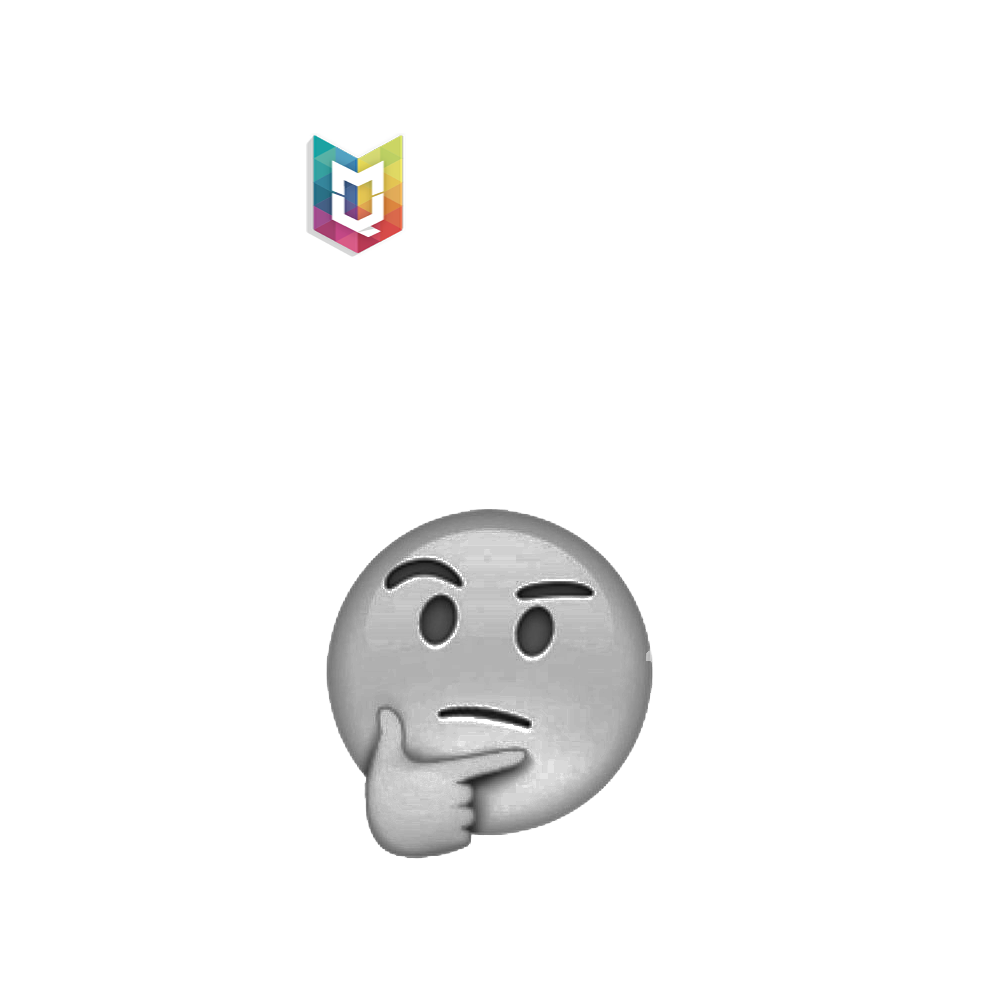
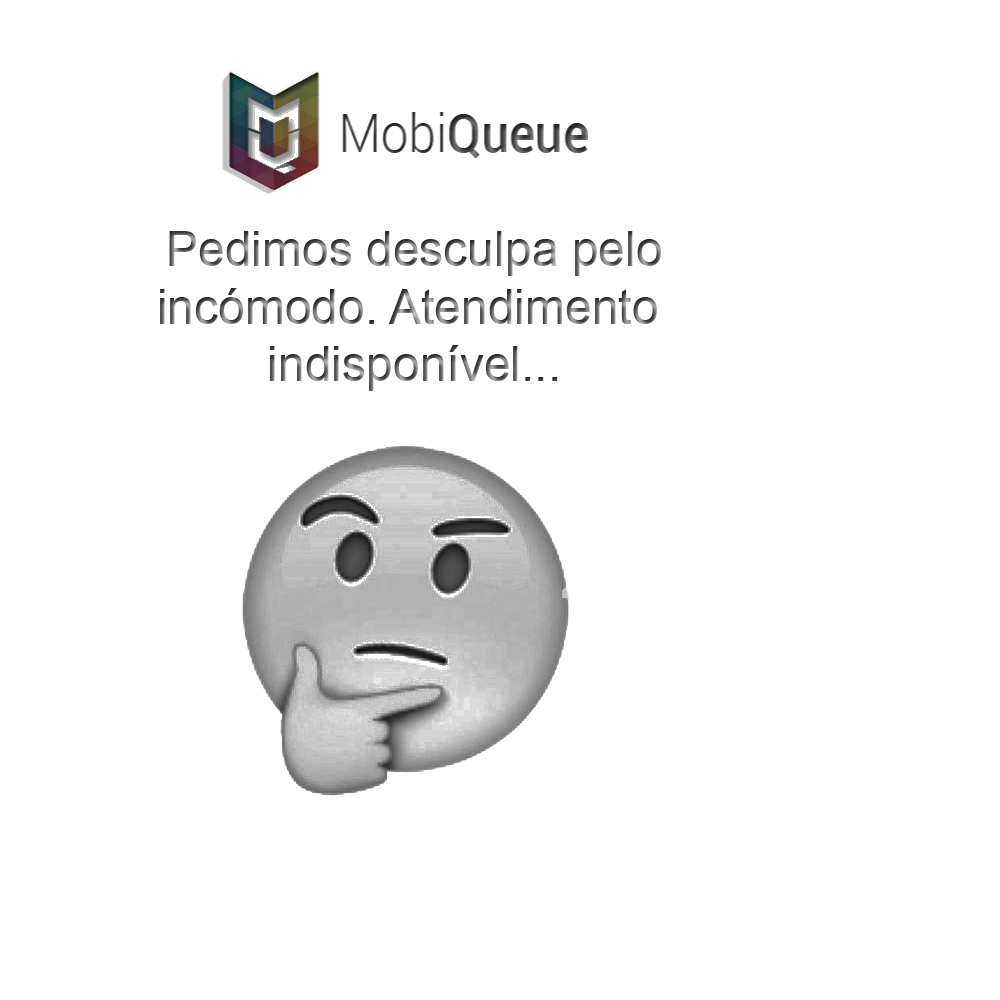
19thUp

Changed region(s): [[0.217, 0.434, 0.651, 0.868], [0.155, 0.062, 0.682, 0.403]]

diff --git a/formmarca.html b/formmarca.html
@@ -13,7 +13,7 @@
 
         }
     </script>
-    <style >
+    <style>
         #div1{
             background: white;
             background-repeat: no-repeat;
@@ -21,15 +21,18 @@
             border: 2px solid black;
             position: relative;
             min-height: 130px;
-            font-size: 100%;
+            font-size: ;
             font-weight: bold;
             font-family: verdana;
             margin-left: 320px;
             vertical-align: text-middle;
+        .div1{
+            background: #ccc;
+            border: 2px solid black;
+            }
+       #header {
 
-        }
-        #header {
-
+            padding-top: 370px;
             position: relative;
             min-height: 100px;
             font-size: 500%;
@@ -39,21 +42,17 @@
             vertical-align: text-bottom;
             text-shadow: 2px 2px #000000;
         }
-
     </style>
 </head>
 
 <body background="./fundo12.png">
-<div style="height:300px;"><br><br><br><br><br></div>
 <div id="header">
-    <b>Video Call</b>
+    <b>Efectue a sua marcação:</b>
 </div>
 
 <script type="text/javascript" src="https://secure.skypeassets.com/i/scom/js/skype-uri.js"></script>
 <div id="div1" style="margin-left:16%; margin-right: 47%">
-    <br>
-    <p style="margin-left:20px; font-size:150%;">Efetue a marcação:</p>
-    <form method="get"  action="./countdown.html" style="font-weight: bold;">
+       <form method="get"  action="./countdown.html" style="font-weight: bold;">
           <table style=" margin-left:20px; text-align: left">
             <tr>
                 <td>Insira o seu nome:</td>

diff --git a/countdown.html b/countdown.html
@@ -7,12 +7,26 @@
             background: white;
             border: 2px solid black;
             }
+         #header {
+
+            padding-top: 370px;
+            position: relative;
+            min-height: 100px;
+            font-size: 500%;
+            color: white;
+            font-family: verdana;
+            margin-left: 220px;
+            vertical-align: text-bottom;
+            text-shadow: 2px 2px #000000;
+        }
+
     </style>
     <link href="style.css" rel="stylesheet" type="text/css" />
   </head>
   <body background="./fundo12.png">
+  <div id="header"><b>Aguarde...</b></div>
     <div id="del-countdown" class="div1">
-      <h1>Aguarde, o seu agendamento foi concluido. Tempo restante ate o contactar:</h1>
+      <h1>O seu agendamento foi concluido. Tempo restante ate o contactar:</h1>
       <div id="clock"></div>
       <div id="units">
         <span>Days</span>
@@ -20,7 +34,11 @@
         <span>Minutes</span>
         <span>Seconds</span>
       </div>
-      <button style="margin: 15% auto; with=150px; height=120; font-size: 20px;" onclick="" >Seguir</button>
+      <form  style="margin-left:100px;" method="get" action=./a.andar.html>
+
+
+        <button style="margin: 15% auto; with=150px; height=120; font-size: 20px;">Seguir</button>
+      </form>
     </div>
     <script src="countdown.js"></script>
 

diff --git a/a.andar.html b/a.andar.html
@@ -4,16 +4,29 @@
     <title>MobiQueue</title>
     <style>
         .div1{
-            background: #000;
+            background: #ccc;
             border: 2px solid black;
             }
+       #header {
+
+            padding-top: 370px;
+            position: relative;
+            min-height: 100px;
+            font-size: 500%;
+            color: white;
+            font-family: verdana;
+            margin-left: 220px;
+            vertical-align: text-bottom;
+            text-shadow: 2px 2px #000000;
+        }
     </style>
     <link href="style.css" rel="stylesheet" type="text/css" />
     <script type="text/javascript" src="https://secure.skypeassets.com/i/scom/js/skype-uri.js"></script>
 </head>
 <body background="./fundo12.png">
+<div id="header"><b>VideoCall</b></div>
 <div id="del-countdown" class="div1">
-<iframe src="./Skypecall.html" height="800px" width="600"></iframe>
+<iframe src="./Skypecall.html" height="800px" width="850"></iframe>
 </div>
 
 </body>

diff --git a/Skypecall.html b/Skypecall.html
@@ -3,6 +3,9 @@
 <head>
     <meta charset="UTF-8">
     <title>Title</title>
+    <style type="text/css">
+
+    </style>
 </head>
 <body background="./videoerro.png">
 

diff --git a/style.css b/style.css
@@ -10,7 +10,7 @@ h1{
 }
 #del-countdown{
   width: 850px;
-  margin: 40% auto;
+  margin: 1% auto;
 }
 #clock span{
   float: left;
